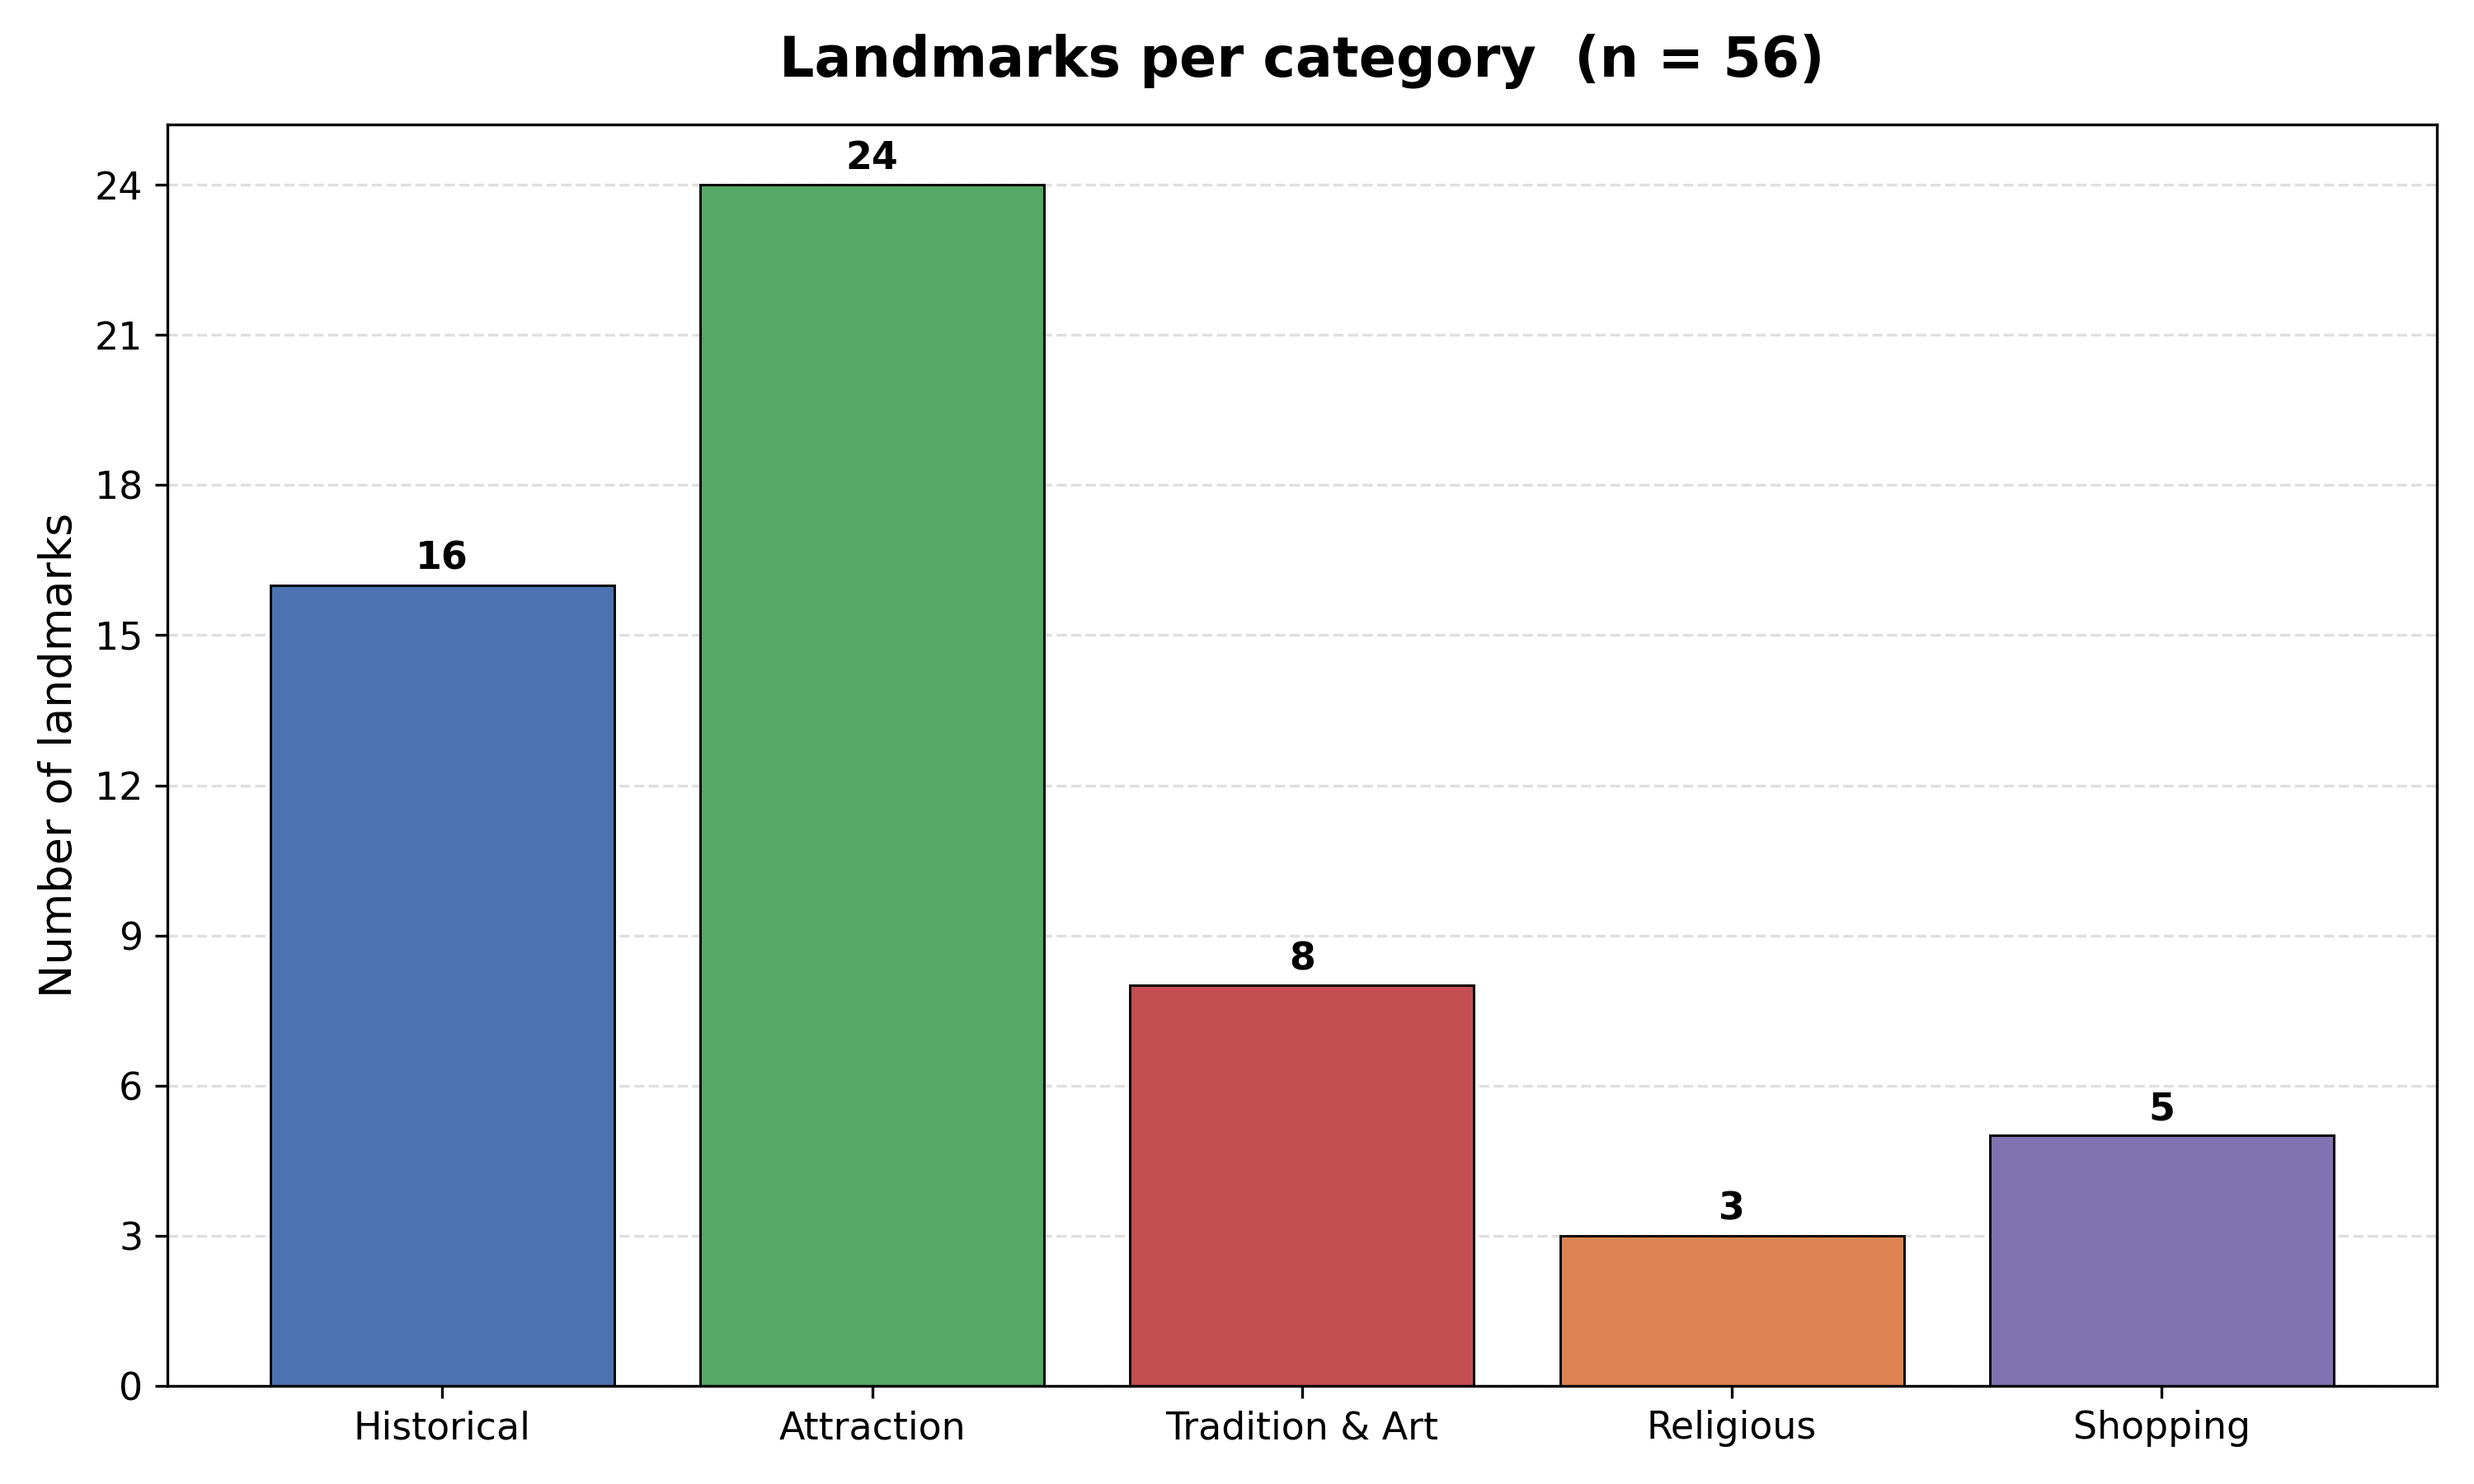
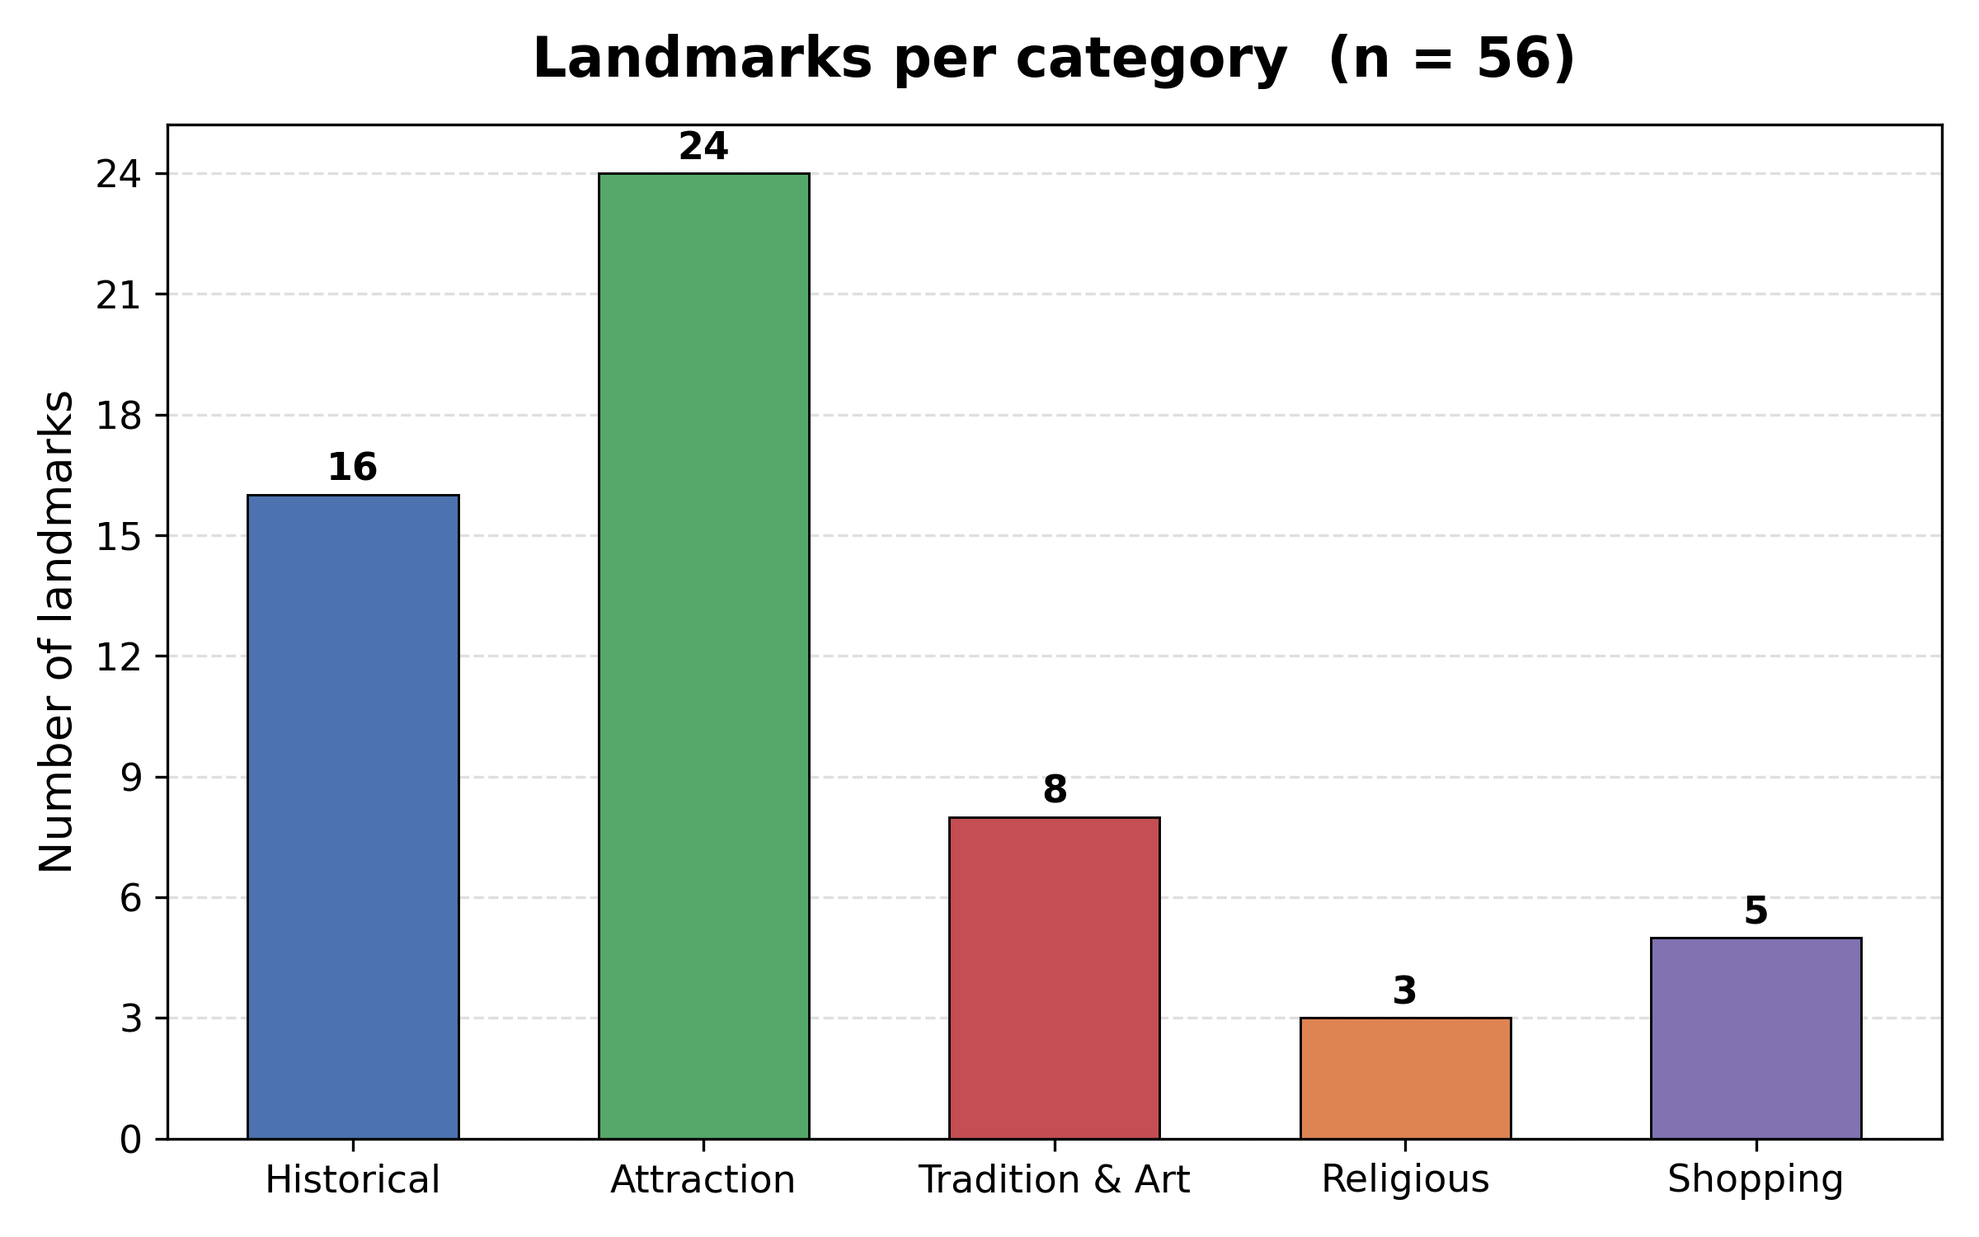
change size for bar char plot

Changed region(s): [[0.0, 0.0307, 1.0, 0.9813]]

diff --git a/algiers-lib/plots.py b/algiers-lib/plots.py
@@ -184,8 +184,15 @@ def plot_landmark_category_counts(
     values = counts["count"].tolist()
     colors = [CATEGORY_COLORS.get(c, CATEGORY_COLORS["unknown"]) for c in counts["category"]]
 
-    fig, ax = plt.subplots(figsize=(10, 6))
-    bars = ax.bar(labels, values, color=colors, edgecolor="black", linewidth=0.7)
+    fig, ax = plt.subplots(figsize=(8, 5))
+    bars = ax.bar(
+        labels,
+        values,
+        color=colors,
+        edgecolor="black",
+        linewidth=0.7,
+        width=0.6,
+    )
 
     ax.set_title(
         f"Landmarks per category  (n = {sum(values)})",
